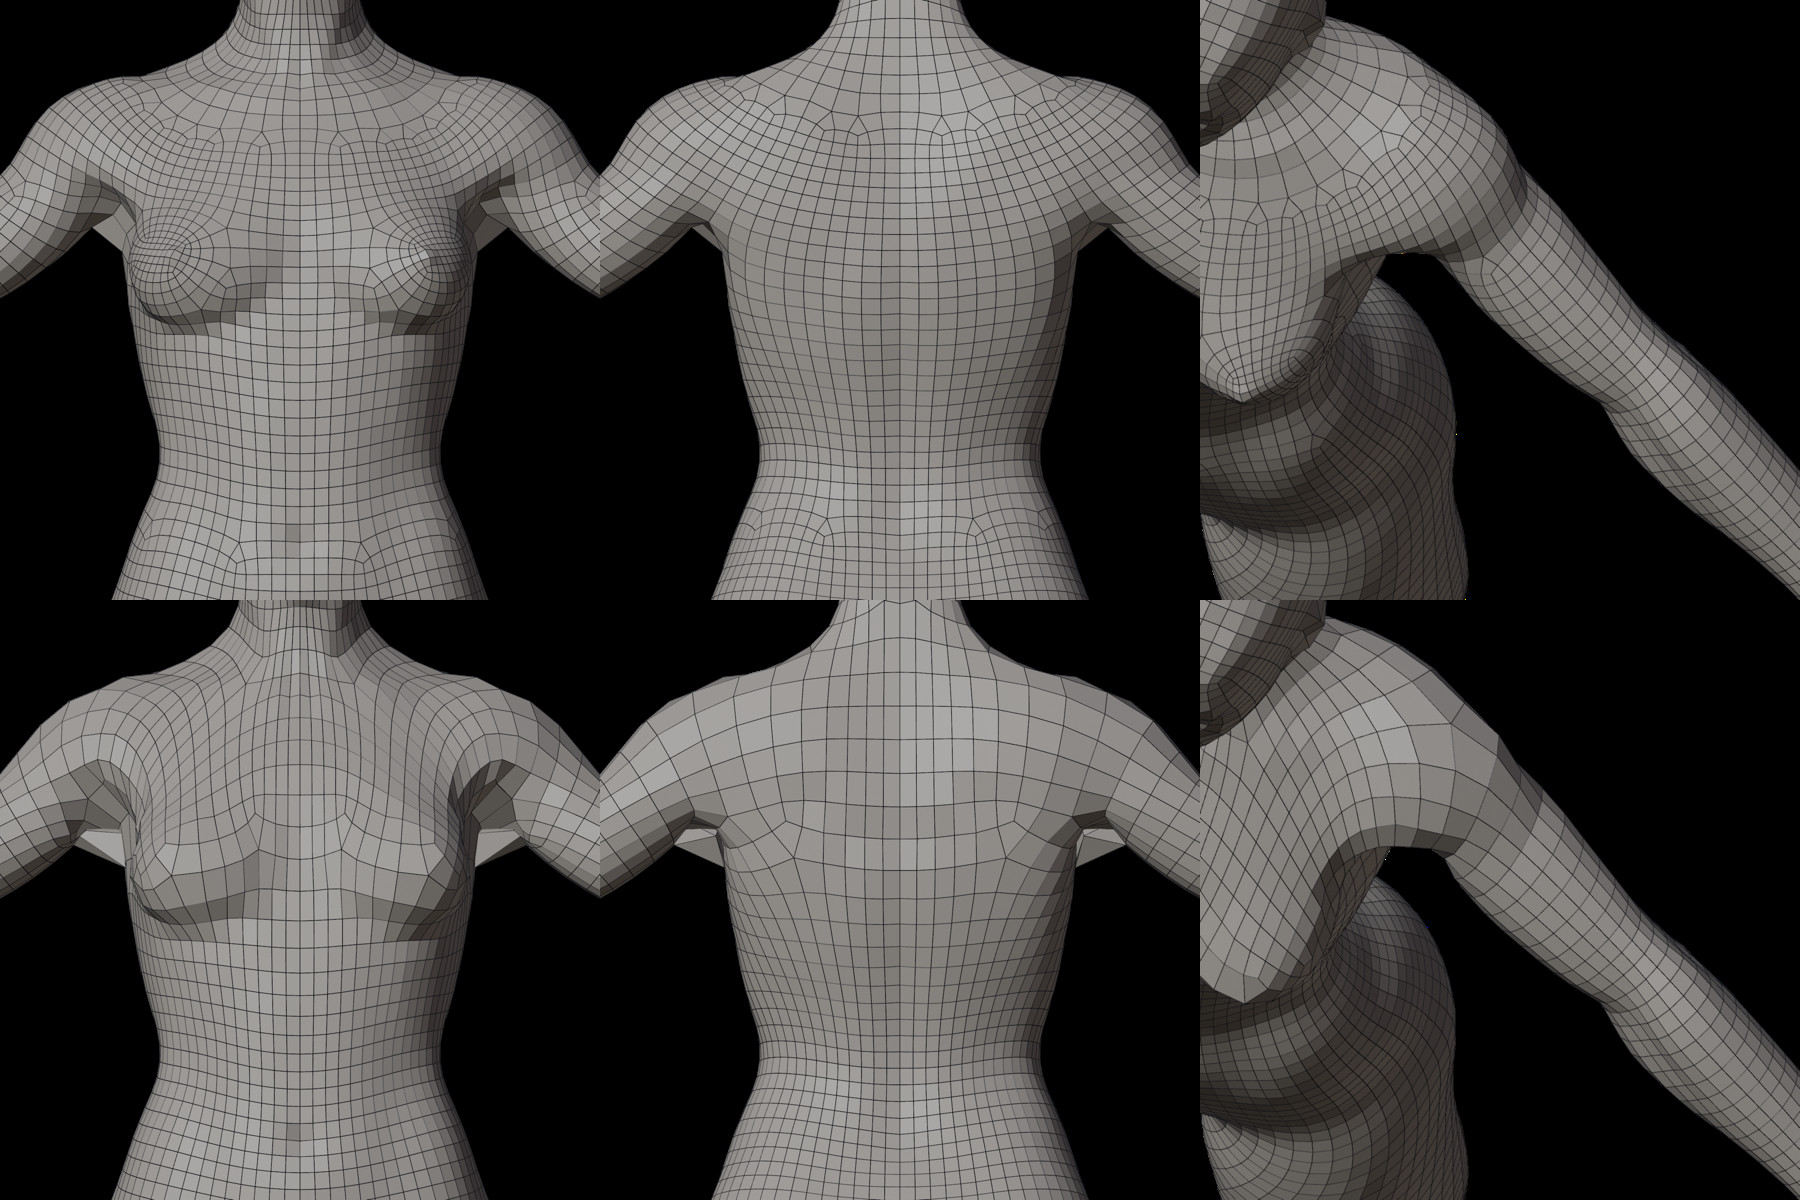
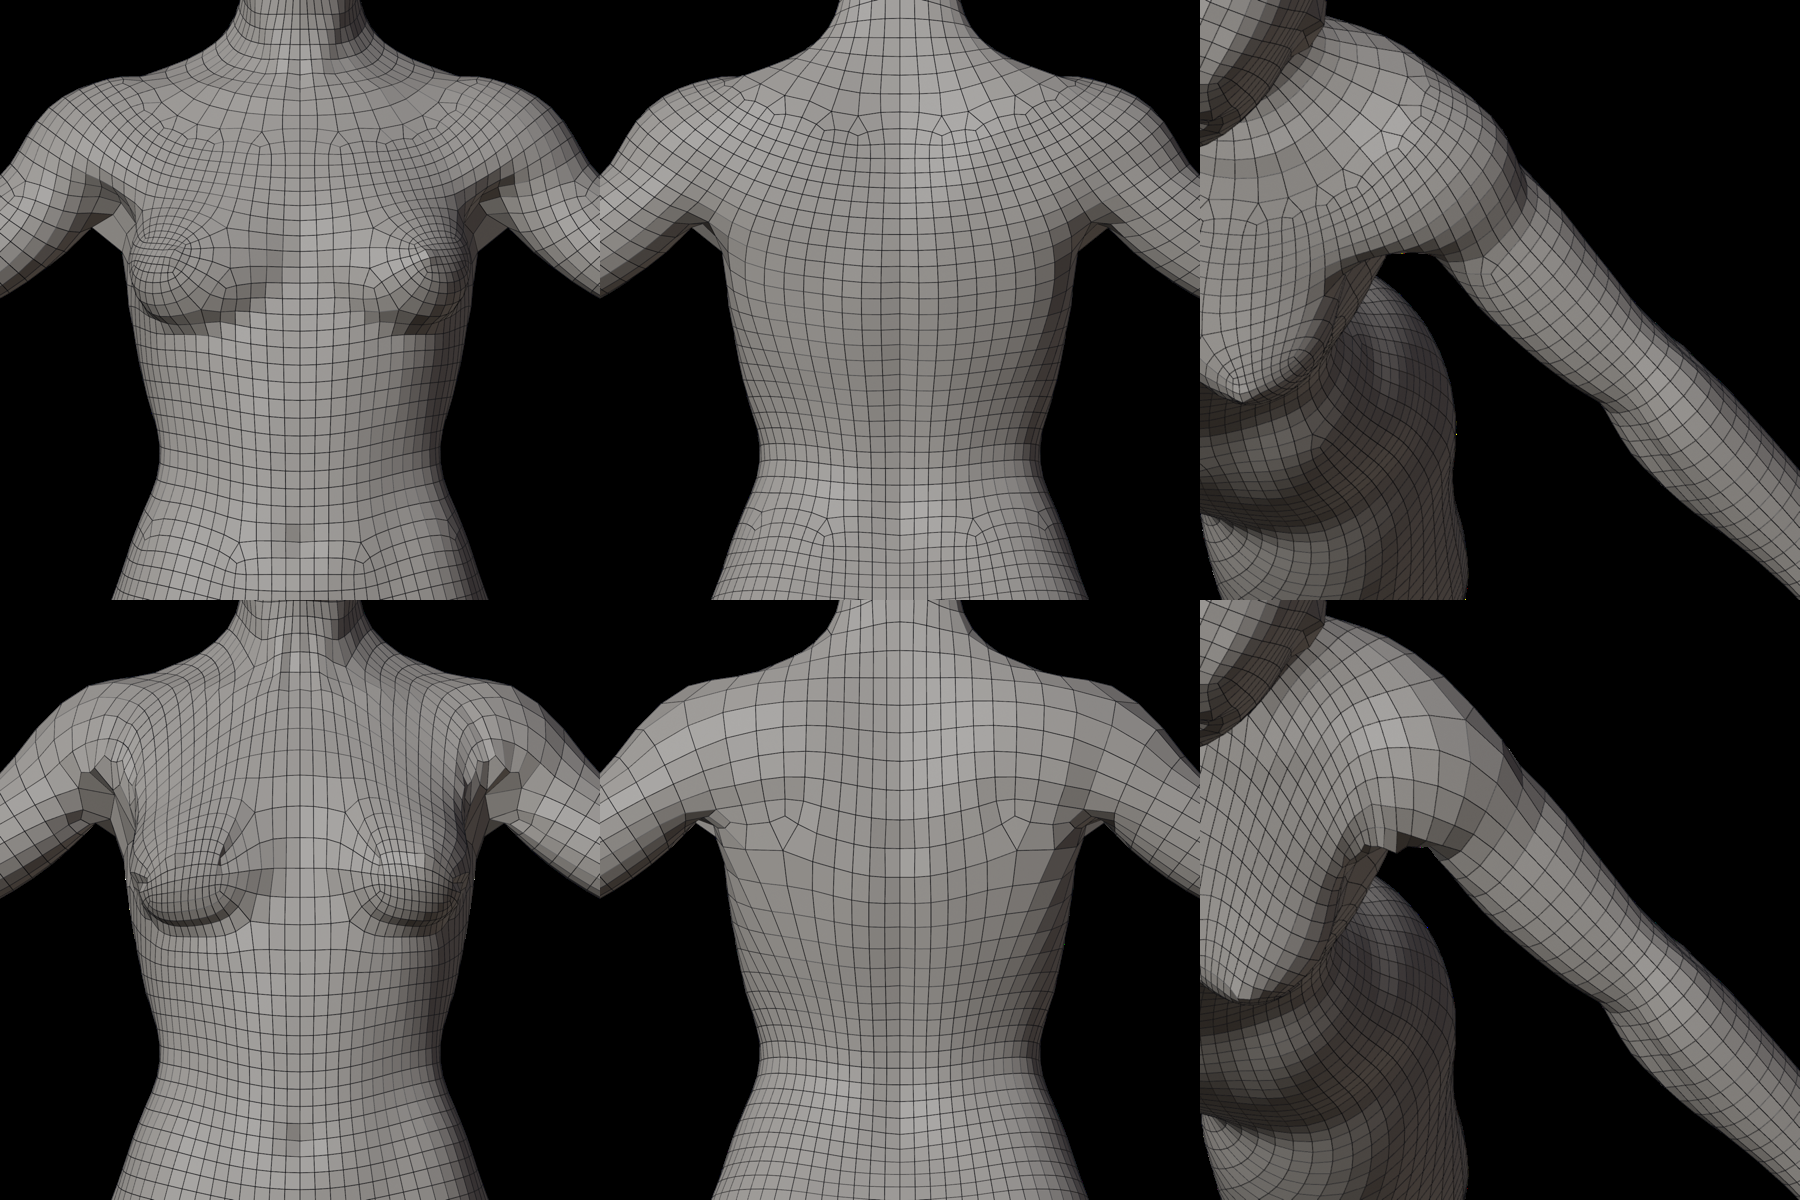
Yoke: breasts searched on the grid, chest reduction under the armpits in steps, denser grid
With ZR_YOKE=1 the yoke grid's points join the breast search; the trunk's
step down from the yoke's ring goes over several bands, each gathered at
the sides under the armpits (new Pref::Sides; ZR_YOKESPREAD spreads them as
before); the grid's fill is 0.45. T-pose 10k with the yoke: 238 poles, 1.2%
badly shaped, no folds, exact mirror, both breasts inset, shoulder density
matching the body. Still opt-in: the breast insets pinch where the trunk
steps down. The default output is unchanged (byte-identical to 0.50.0).

Changed region(s): [[0.0, 0.4933, 0.8711, 0.8633]]

diff --git a/src/zremesh/layout/body.rs b/src/zremesh/layout/body.rs
@@ -344,12 +344,13 @@ fn join_sym(lo: &[u32], hi: &[u32], out_p: &mut Vec<Vec3>, quads: &mut Vec<[u32;
 }
 
 /// Where a band's reductions are gathered, as a box modeller hides them: on the back, on the
-/// inside of a limb, or on the sole.
+/// inside of a limb, on the sole, or (under a yoke) at the sides, under the armpits.
 #[derive(Clone, Copy, PartialEq, Debug)]
 enum Pref {
     Back,
     Inside,
     Sole,
+    Sides,
 }
 
 /// A strip of quads between `b` (the longer row) and `t` with a diamond at each index in
@@ -518,6 +519,8 @@ fn reduce_cols(row_pos: &[Vec3], d: usize, prefer: Pref, plane: Option<MirrorPla
             (Pref::Inside, Some(pl)) => pl.distance(row_pos[i]).abs(),
             (Pref::Inside, None) => row_pos[i][fwd],
             (Pref::Sole, _) => row_pos[i].y,
+            (Pref::Sides, Some(pl)) => -pl.distance(row_pos[i]).abs(),
+            (Pref::Sides, None) => row_pos[i][fwd],
         }
     };
     if d == 0 {
@@ -1370,6 +1373,8 @@ pub(super) fn sweep_body(w: &Work, phi: &[f32], quad: f32, src: u32, plane: Opti
     // parts it as before). A neck widening into the shoulders also parts here, and keeps its
     // own counts.
     let after_ankle: std::cell::RefCell<HashSet<usize>> = std::cell::RefCell::new(HashSet::default());
+    // The rings the trunk steps down from under a yoke: their bands' diamonds go at the sides.
+    let yoke_steps: std::cell::RefCell<HashSet<usize>> = std::cell::RefCell::new(HashSet::default());
     let carry = std::env::var_os("ZR_NOCARRY").is_none() && std::env::var_os("ZR_OLDMERGE").is_none();
     let ankle_diff: usize = std::env::var("ZR_ANKLEDIFF").ok().and_then(|v| v.parse().ok()).unwrap_or(8);
     let plan = |rs: &[usize]| -> Vec<usize> {
@@ -1736,7 +1741,7 @@ pub(super) fn sweep_body(w: &Work, phi: &[f32], quad: f32, src: u32, plane: Opti
                 (if d <= n0.min(n1) / 4 { reduce_cols(&long_pos, dk, prefer, plane, fwd, pinned) } else { None }, fan_cols(&long_pos, &short_pos, dk, pinned))
             };
             let costs = (cols_g.as_ref().map(|c| kite_cost(&long_pos, &short_pos, c, pinned)), cols_s.as_ref().map(|c| kite_cost(&long_pos, &short_pos, c, pinned)));
-            let gather = match costs {
+            let gather = (prefer == Pref::Sides && cols_g.is_some()) || match costs {
                 (Some(g), Some(s)) => g <= s * gather_most,
                 (Some(_), None) => true,
                 _ => false,
@@ -1977,7 +1982,8 @@ pub(super) fn sweep_body(w: &Work, phi: &[f32], quad: f32, src: u32, plane: Opti
         yoke::crotch_dims(n_in, n_leg, wd, dp).map(|c| (r_plus, r_minus, n_leg, c))
     };
     // The shoulders as a yoke (opt-in, `ZR_YOKE=1`: on the T-pose it removes the ring of poles
-    // at the neck base but the breasts are then not found and the shoulders come out coarser): with a plane, when the head run ends at a
+    // at the neck base and the Y-junctions over the shoulders, but the breasts fall where the
+    // trunk steps down from the yoke's ring and their insets come out long and pinched): with a plane, when the head run ends at a
     // piece with three rings past it (the trunk, cut by the plane, and an arm each side), a
     // grid over the trunk's ring with holes for the neck and the arms takes the place of the
     // rings between the neck and that piece. The neck hole takes the row of the ring after
@@ -2007,14 +2013,14 @@ pub(super) fn sweep_body(w: &Work, phi: &[f32], quad: f32, src: u32, plane: Opti
         // The grid's cells should cover the surface it replaces (the pieces from under the
         // neck row to the split) at about a quad each: the trunk's ring under the grid takes
         // the smallest count in fours, from the trunk's own up to twice it, whose grid has
-        // `ZR_YOKEFILL` (0.3) of those cells; the trunk steps back to its own count on the
+        // `ZR_YOKEFILL` (0.45) of those cells; the trunk steps back to its own count on the
         // next band, with diamonds (`ZR_YOKEPLAIN`: the trunk's own count, a coarser grid).
         let covered: HashSet<u32> = head_run[m..].iter().map(|&r| rings[r].to).collect();
         let area: f64 = w.t.iter().filter(|t| t.iter().all(|&v| covered.contains(&comp[v as usize]))).map(|t| {
             let (a, b, c) = (w.p[t[0] as usize], w.p[t[1] as usize], w.p[t[2] as usize]);
             (b - a).cross(c - a).length() as f64 * 0.5
         }).sum();
-        let fill: f64 = std::env::var("ZR_YOKEFILL").ok().and_then(|v| v.parse().ok()).unwrap_or(0.3);
+        let fill: f64 = std::env::var("ZR_YOKEFILL").ok().and_then(|v| v.parse().ok()).unwrap_or(0.45);
         let target = area / (quad as f64 * quad as f64) * fill;
         let plain = std::env::var_os("ZR_YOKEPLAIN").is_some();
         let top = if plain { n_trunk } else { n_trunk * 2 };
@@ -2408,6 +2414,28 @@ pub(super) fn sweep_body(w: &Work, phi: &[f32], quad: f32, src: u32, plane: Opti
                         counts.insert(run[k], c);
                     }
                 }
+                // The trunk steps down from the yoke's ring over as many bands as it takes for
+                // each step's diamonds to gather under the armpits (a third of the count at
+                // most), in fours.
+                {
+                    let run = chain_from(y.trunk);
+                    let mut c = y.n_trunk;
+                    let mut steps = yoke_steps.borrow_mut();
+                    steps.insert(y.trunk);
+                    for &q in run.iter().skip(1) {
+                        let want = counts[&q];
+                        if want >= c {
+                            break;
+                        }
+                        let next = want.max((2 * c).div_ceil(3).div_ceil(4) * 4);
+                        counts.insert(q, next);
+                        if next == want {
+                            break;
+                        }
+                        steps.insert(q);
+                        c = next;
+                    }
+                }
                 torso.extend(row_t.iter().copied());
                 stack.push((rings[y.trunk].to, row_t, true, y.trunk));
                 stack.push((rings[arm_plus].to, row_plus, false, arm_plus));
@@ -2512,7 +2540,11 @@ pub(super) fn sweep_body(w: &Work, phi: &[f32], quad: f32, src: u32, plane: Opti
                 let next_sym = pinned(r, n);
                 // Where this band's reductions go: the back of the head, neck and trunk, the
                 // inside of a limb, the sole of a foot or hand.
-                let prefer = if plane.is_none() || ring_cross[r].is_some() || head_run.contains(&r) {
+                let prefer = if yoke_steps.borrow().contains(&in_ring) && std::env::var_os("ZR_YOKESPREAD").is_none() {
+                    // The trunk steps down from the yoke's ring under the armpits
+                    // (`ZR_YOKESPREAD`: as any band, spread round the chest).
+                    Pref::Sides
+                } else if plane.is_none() || ring_cross[r].is_some() || head_run.contains(&r) {
                     Pref::Back
                 } else if after_ankle.borrow().contains(&r) {
                     Pref::Sole

diff --git a/handoff.md b/handoff.md
@@ -1049,6 +1049,8 @@ The user shared four reference images of hand-made / Quad Remesher-quality chara
 - Counts: the grid's border is the trunk ring, so with the trunk's own count (64) the grid is 18x14 and too coarse (first try: 1.7% bad). The trunk ring under the grid now takes the smallest count in fours whose grid has `ZR_YOKEFILL` (0.3) of the replaced surface's quads (92: a 26x20 grid), and the chest steps back to 64 one band lower with 14 spread diamonds (`ZR_YOKEPLAIN` keeps 64). Fill 0.45 / 0.6 / 0.85 were worse (2.6 / 1.9 / 2.5% bad).
 - T-pose 10k, `ZR_YOKE=1`: 210 poles (270), the neck-base ring of 48 poles gone, long lines from the neck over the chest, exact mirror, 0 folded; but 1.1% bad (0.5%), **the breasts are not found** (bumps look for runs of plain trunk rows; the upper chest is now grid) and the trapezius and shoulder tops are coarser than the body (`deep-test/2026-11-05-layout/yoke-optin.png`, top released, bottom yoke). To make it the default: run `bumps()` over the yoke grid too (it is a regular grid, so `grid_rect` works there), put the 92 → 64 diamonds under the armpits instead of spread round the chest, and give the shoulder tops more rows (the arm's first rings, not the grid, should cover the deltoid).
 
+- **Yoke fixes** (same day): (1) the yoke grid's points go into the breast search (`torso`); the breast was then found but rejected ("its tip is not on a regular grid") because (2) the 92 → 64 step spread its diamonds over the chest; a new `Pref::Sides` gathers a yoke trunk band's diamonds at the sides, under the armpits (`ZR_YOKESPREAD`: as before), and the trunk now steps down from the yoke's ring over several bands, each at most a third of the count, so every step gathers (`yoke_steps`). (3) With that, denser grids work, so `ZR_YOKEFILL` is now 0.45 (a 108 ring, 30x24 grid, 108 → 72 → 64 under the armpits). T-pose 10k, `ZR_YOKE=1`: 238 poles, 1.2% bad (torso 1.7, head 2.2), 0 folded, exact mirror, both breasts inset; shoulder and back density now match the body (`yoke-optin.png`, top released, bottom yoke). Tried and dropped: shaping the grid by the over-the-shoulder path (depth + 2 × climb; 3–4% bad, folds) and centring the breast block toward the tip (no effect on the yoke, changed the default). **Still blocking the default:** the breasts lie in the bands where the trunk steps down from the yoke ring, where the columns are narrow (0.64 quad across vs 1.15 released), so the breast region is long and thin (9.5 × 1.1 cells), the block is 11–12 × 4 with the tip near one end, and the insets pinch at their inner top. Next idea: put the yoke's trunk ring below the breasts (the yoke grid then covers the upper chest, and the breasts are inset into the grid's regular cells), or step down above them.
+
 ## Step 109 — Release 0.50.0 (2026-11-08)
 
 - Published as tag `v0.50.0` with a GitHub release (AppImage, Flatpak, .deb). 0.50.0 had been set in Step 107 but never tagged or pushed, so it carries Step 107 (Transpose axis snapping, model floor, SubTool symmetry) and Step 108 (ZRemesher Plan Layout with the box-modeller body builder, experimental and off; Follow Shape and Detect Edges on by default). `zremesh-topology` was fast-forwarded into `main`; the unfinished shoulder-yoke branch `worktree-wf_9af7fe95-f0a-3` is not in it.
